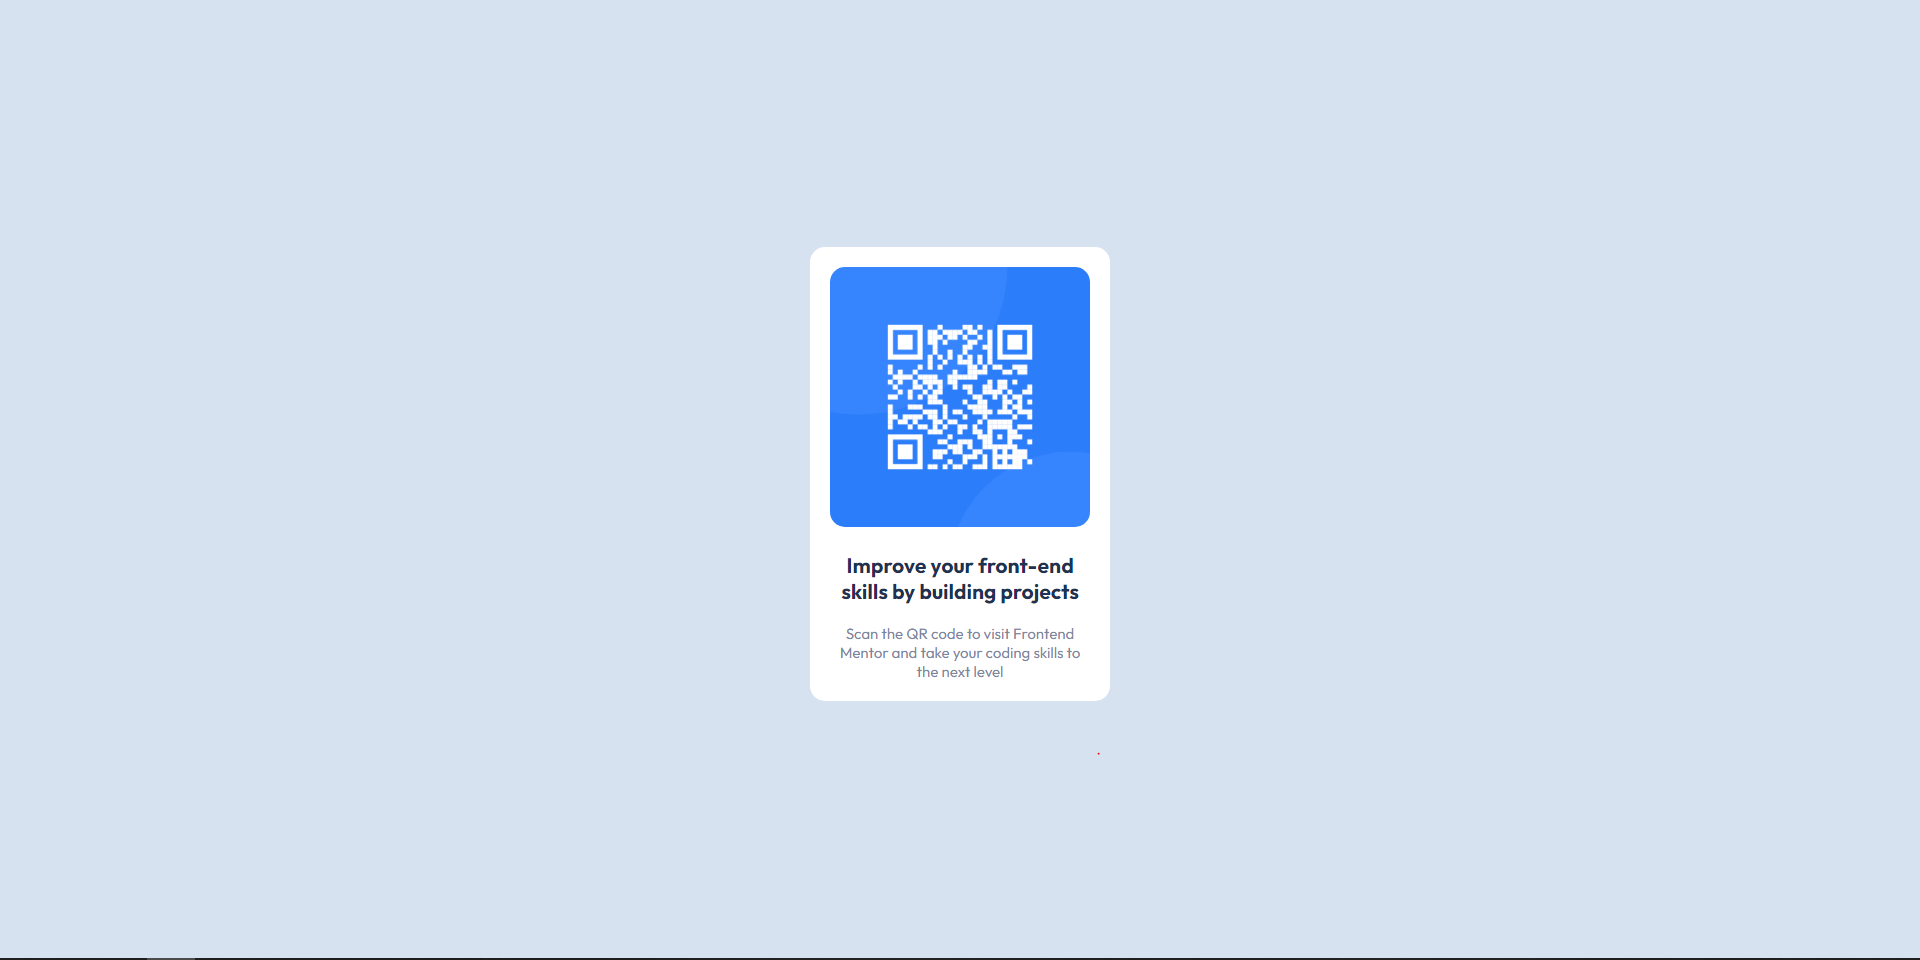
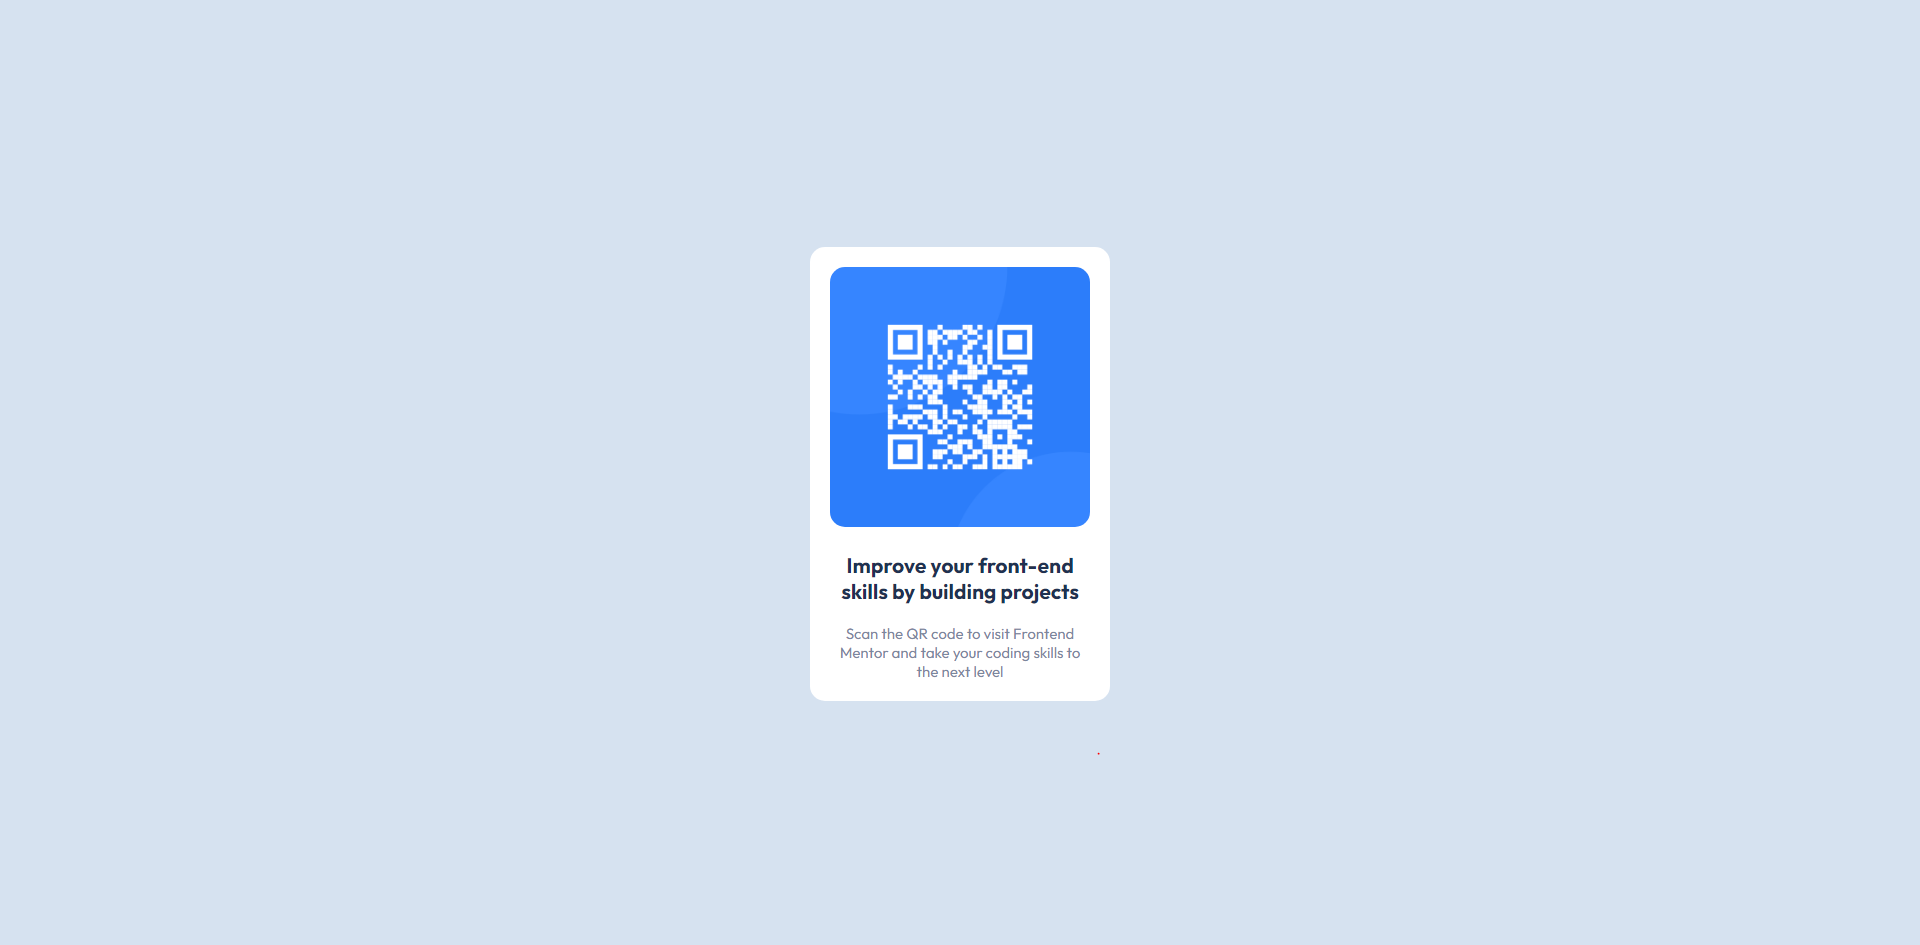
Finalized.

Changed region(s): [[0.4062, 0.3376, 0.5938, 0.7672], [0.0, 0.982, 1.0, 1.0], [0.4375, 0.2455, 0.5625, 0.3069]]

diff --git a/src/App.js b/src/App.js
@@ -1,4 +1,4 @@
-import { Container, Row, Col, Card } from 'react-bootstrap';
+import { Container, Card } from 'react-bootstrap';
 import qrCodeImage from "./assets/image-qr-code.png";
 import './App.css';
 
@@ -6,7 +6,7 @@ function App() {
   return (
     <Container fluid className="main-container">
       <Card>
-        <Card.Img variant="top" src={qrCodeImage} className='p-5' />
+        <Card.Img variant="top" src={qrCodeImage} />
         <Card.Body>
           <Card.Title>Improve your front-end skills by building projects</Card.Title>
           <Card.Text>

diff --git a/README.md b/README.md
@@ -10,12 +10,9 @@ This is a solution to the [QR code component challenge on Frontend Mentor](https
 - [My process](#my-process)
   - [Built with](#built-with)
   - [What I learned](#what-i-learned)
-  - [Continued development](#continued-development)
   - [Useful resources](#useful-resources)
 - [Author](#author)
 - [Acknowledgments](#acknowledgments)
-
-**Note: Delete this note and update the table of contents based on what sections you keep.**
 
 ## Overview
 
@@ -38,64 +35,23 @@ I started by inspecting the provided designs. I decided to use responsive contai
 
 ### Built with
 
-- Semantic HTML5 markup
 - CSS custom properties
 - Flexbox
-- CSS Grid
-- Mobile-first workflow
 - [React](https://reactjs.org/) - JS library
-- [Next.js](https://nextjs.org/) - React framework
-- [Styled Components](https://styled-components.com/) - For styles
-
-**Note: These are just examples. Delete this note and replace the list above with your own choices**
+- [React Bootstrap](https://react-bootstrap.github.io/) - Bootstrap library rebuilt for React
 
 ### What I learned
 
-Use this section to recap over some of your major learnings while working through this project. Writing these out and providing code samples of areas you want to highlight is a great way to reinforce your own knowledge.
+This project gave me a better look at the experience of being given a design to develop from scratch. While earning my degree, we generally start with an idea: "create an application that has a list of items you can search through", for example. Designing the application was left entirely to us as the developers. While this freedom was fun to work with, it could also leave some students stumped. It was also unrealistic compared to real world scenarios.
 
-To see how you can add code snippets, see below:
-
-```html
-<h1>Some HTML code I'm proud of</h1>
-```
-```css
-.proud-of-this-css {
-  color: papayawhip;
-}
-```
-```js
-const proudOfThisFunc = () => {
-  console.log('🎉')
-}
-```
-
-If you want more help with writing markdown, we'd recommend checking out [The Markdown Guide](https://www.markdownguide.org/) to learn more.
-
-**Note: Delete this note and the content within this section and replace with your own learnings.**
-
-### Continued development
-
-Use this section to outline areas that you want to continue focusing on in future projects. These could be concepts you're still not completely comfortable with or techniques you found useful that you want to refine and perfect.
-
-**Note: Delete this note and the content within this section and replace with your own plans for continued development.**
+Additionally, I learned a lot about the importance of reflection. This project was the first time I sat down and created an in-depth Read Me file. It was incredible to learn the powers of a Markdown file when it comes to documentation and organization.
 
 ### Useful resources
 
-- [Example resource 1](https://www.example.com) - This helped me for XYZ reason. I really liked this pattern and will use it going forward.
-- [Example resource 2](https://www.example.com) - This is an amazing article which helped me finally understand XYZ. I'd recommend it to anyone still learning this concept.
-
-**Note: Delete this note and replace the list above with resources that helped you during the challenge. These could come in handy for anyone viewing your solution or for yourself when you look back on this project in the future.**
+- [React Bootstrap Documentation (Cards)](https://react-bootstrap.github.io/components/cards/) - Reviewing the documentation for the card component was very useful and easy to adapt to.
+- [React GitHub Pages](https://github.com/gitname/react-gh-pages) - A very useful source for learning to properly deploy a React application to GitHub pages.
 
 ## Author
 
-- Website - [Add your name here](https://www.your-site.com)
-- Frontend Mentor - [@yourusername](https://www.frontendmentor.io/profile/yourusername)
-- Twitter - [@yourusername](https://www.twitter.com/yourusername)
-
-**Note: Delete this note and add/remove/edit lines above based on what links you'd like to share.**
-
-## Acknowledgments
-
-This is where you can give a hat tip to anyone who helped you out on this project. Perhaps you worked in a team or got some inspiration from someone else's solution. This is the perfect place to give them some credit.
-
-**Note: Delete this note and edit this section's content as necessary. If you completed this challenge by yourself, feel free to delete this section entirely.**
+- Website - [Fin Tatum](https://www.fintatum.com)
+- Frontend Mentor - [@tdtatum2](https://www.frontendmentor.io/profile/tdtatum2)
